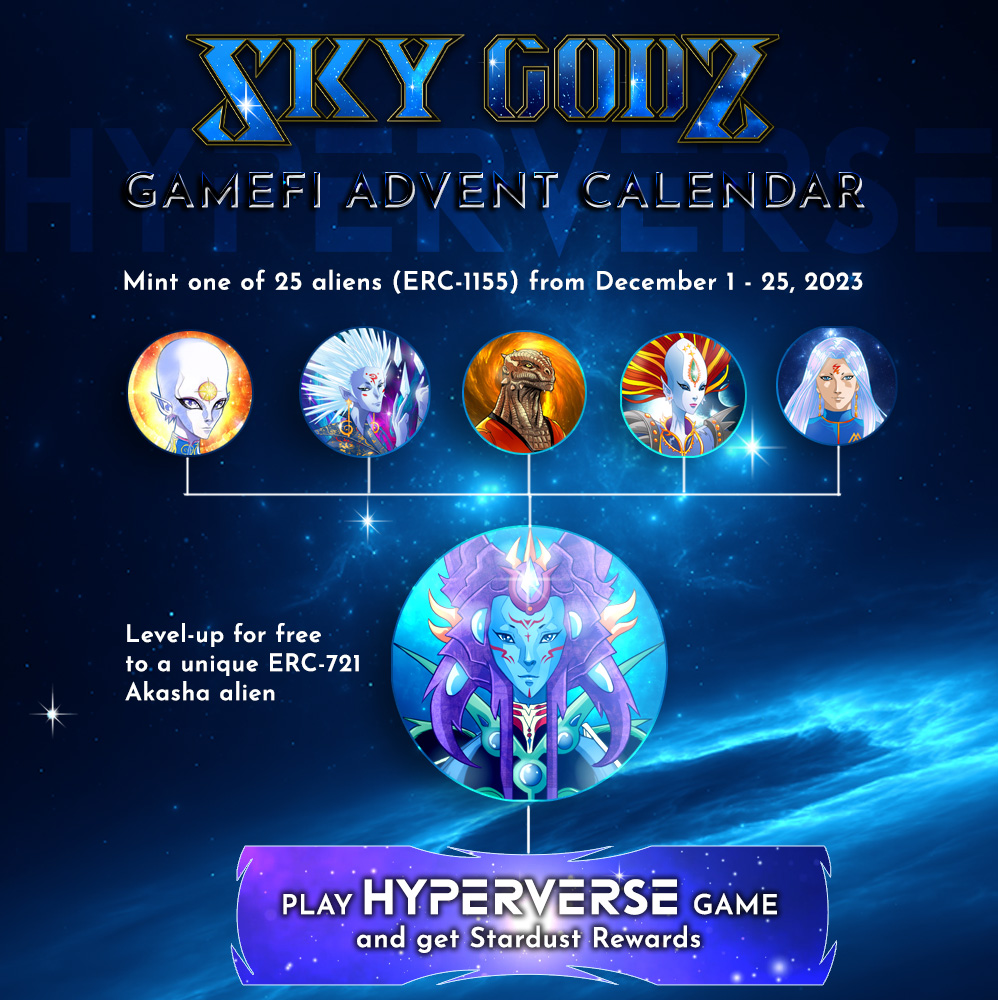
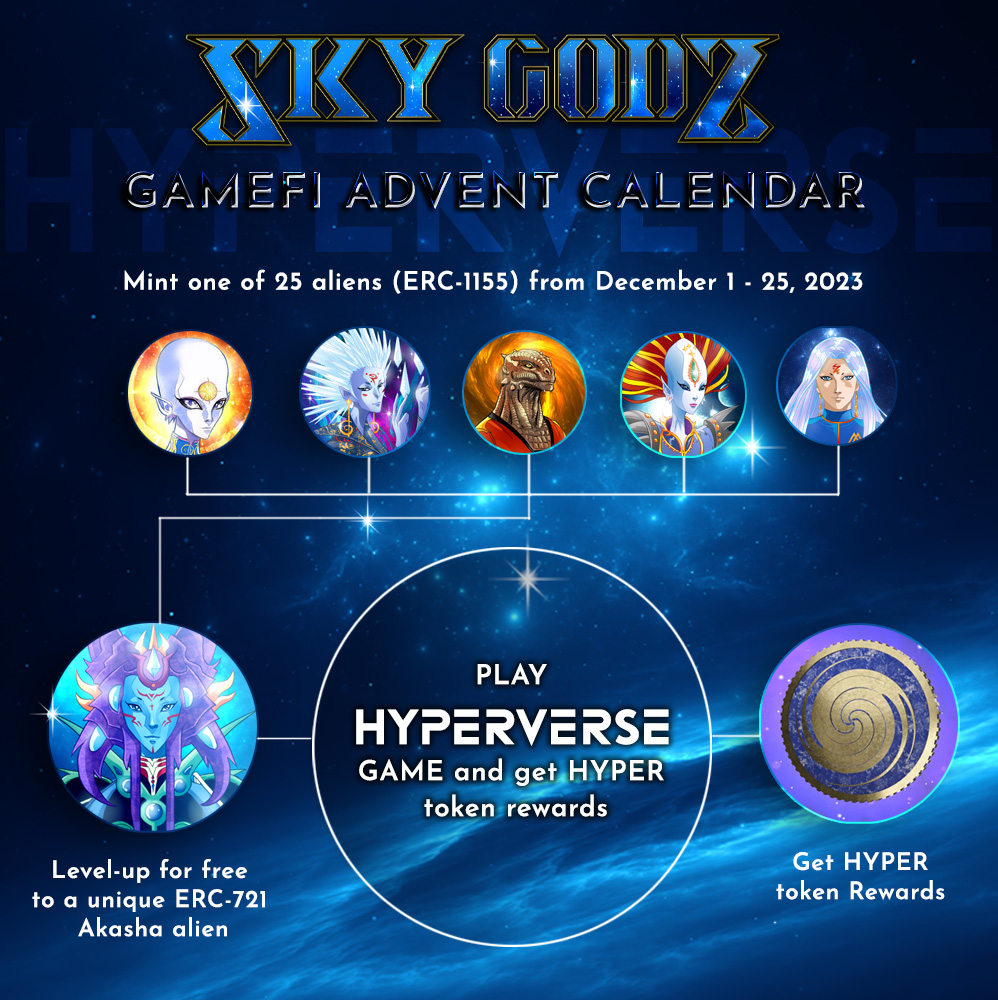
Some UI changes

Changed region(s): [[0.0311, 0.496, 0.9629, 0.992]]

diff --git a/components/templates/home/Home.tsx b/components/templates/home/Home.tsx
@@ -72,10 +72,10 @@ import { Credits } from '../credits';
 
 <div className="  w-1/2 justify-center m-auto pt-12">
 <h1 className="text-center text-blue-100 text-2xl font-Proza">
-Blast off into the Hyperverse with the SKY GODZ: Gamefi Advent Calendar and propel your alien through the hyperverse and collect Stardust token rewards as you cross the dimensions.
+Blast off into the Hyperverse with the SKY GODZ: Gamefi Advent Calendar and propel your alien through the hyperverse and collect HYPER token rewards as you cross the dimensions.
 </h1>
 
-<div className="grid lg:grid-cols-2 md:grid_cols-1 sm:grid-cols-1 gap-4 max-w-4xl justify-center m-auto mt-8">
+<div className="grid lg:grid-cols-3 md:grid_cols-1 sm:grid-cols-1 gap-4 max-100% justify-center m-auto mt-8">
 
     <div>
     <Image
@@ -98,6 +98,19 @@ Blast off into the Hyperverse with the SKY GODZ: Gamefi Advent Calendar and prop
       width={750}
       height={750}
     />
+
+    </div>
+
+
+    <div>
+    <Image
+      className="m-auto h-96 w-96 rounded-3xl"
+      src="/assets/hpyer_token3d_front.jpg"
+      alt="Akasha alien"
+      width={800}
+      height={800}
+    />
+
 
     </div>
 

diff --git a/components/templates/adventcalendar/Calendar.tsx b/components/templates/adventcalendar/Calendar.tsx
@@ -66,7 +66,7 @@ const CALENDAR = () => {
   </ul>
 
   <ul className="list-disc">
-  <li>HYPERVERSE game wil start on December 21, 2023.</li>
+  <li>HYPERVERSE game wil start on December 21, 2023 to get HYPER token rewards.</li>
   </ul>
 
             </p></div>
